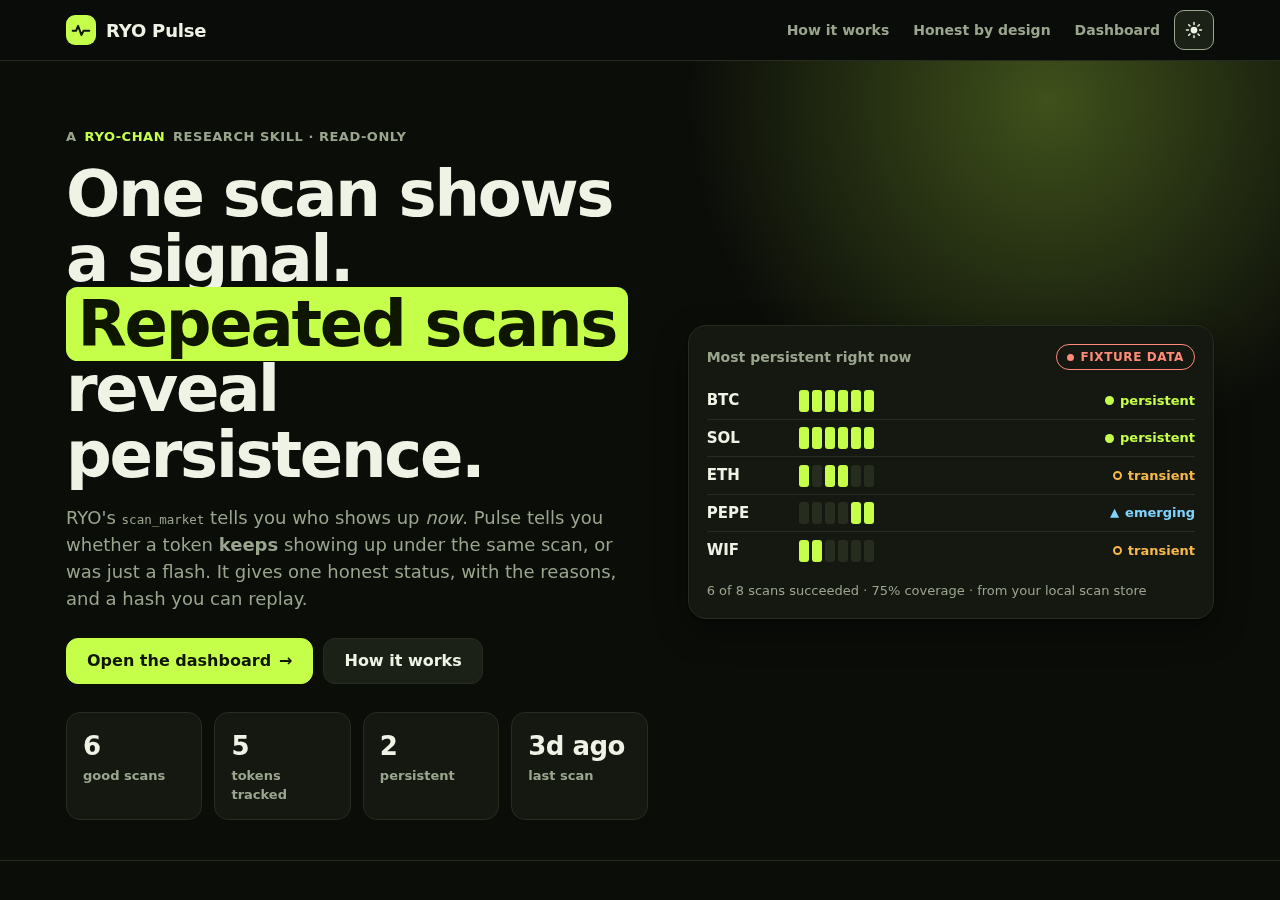
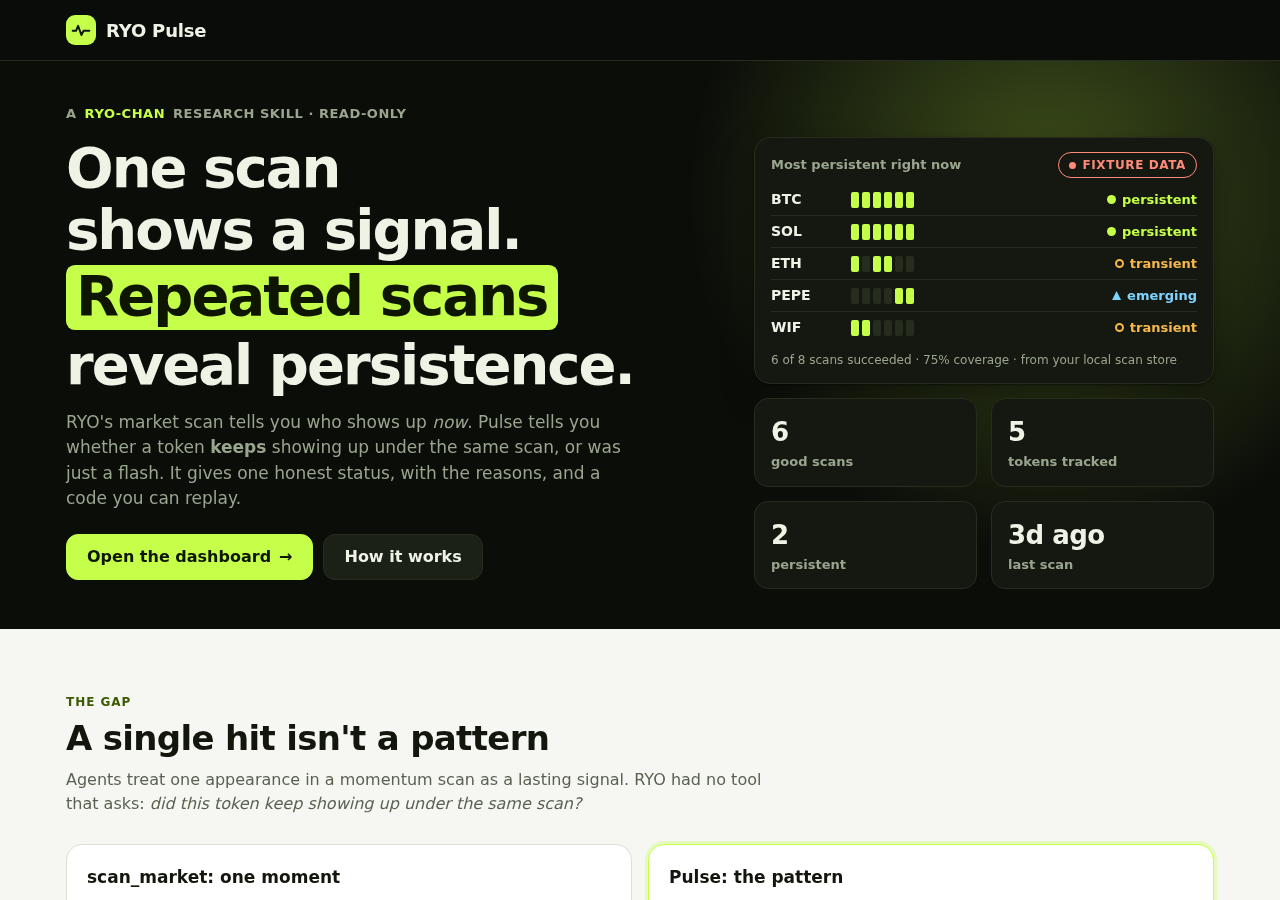
README: describe the new site, refresh screenshots

diff --git a/README.md b/README.md
@@ -61,18 +61,21 @@ ryo-pulse serve --fixture tests/fixtures/demo_window.json   # offline demo (labe
 ryo-pulse serve --lan                # also open it from a phone on the same Wi-Fi (prints the address)
 ```
 
-![Landing page, night mode](docs/landing.png)
+On Windows, if `ryo-pulse` isn't found, run it from the repo folder with `$env:PYTHONPATH="src"; python -m ryo_pulse serve`. The server reads the page files when it starts, so restart it after pulling changes.
+
+![Landing page](docs/landing.png)
 
 ![Dashboard on the labelled synthetic fixture](docs/dashboard-fixture.png)
 
-A local, read-only screen for **configuring and monitoring** the Pulse skill. It answers "what changed and why" at a glance:
+A local, read-only screen for **configuring and monitoring** the Pulse skill. Its headline is the question it answers: **What changed and why**.
 
-- **What changed since the last scan** comes first: status transitions (for example `persistent → transient`) with the reason, plus the tokens that entered or dropped out of the newest scan.
+- **At a glance:** four tiles for good scans and coverage, the last scan, RYO's market mood and the scan settings in plain words (for example "Top 20"), plus a LIVE or FIXTURE DATA badge.
+- **What changed since the last scan** comes next: status transitions (for example `persistent → transient`) with the reason, plus the tokens that entered or dropped out of the newest scan.
 - **Tokens, most important first:** emerging, then persistent, transient and absent. Each row has hits, streak, current rank, a presence strip of the last 24 good scans and a plain-language *why*. Expand a row for every reason, a `ryo-pulse pulse` command to reproduce it and the `replay_hash`.
 - **Scan health:** ok, failed and drifted scans over time, plus a banner when the latest scan failed. Failures are never shown as absence.
-- **Settings:** window size, the four thresholds and a watchlist pinned to the top. These are saved per browser, sent to the same engine the skill uses, and the page refreshes every 60 s.
-- **Landing page** at `/` with live stats from your scan store and a "most persistent right now" card. The dashboard is at `/board`.
-- **Look:** a dark site with the accent colour `#c5ff4a`. The landing page alternates dark and light bands as you scroll.
+- **Settings:** a Settings button in the top bar (or `s`) opens a popup for window size, the four thresholds and a watchlist pinned to the top. Empty boxes show the values in use. Settings are saved per browser and sent to the same engine the skill uses. The page refreshes every 60 s.
+- **Landing page** at `/`: the idea in one screen, a "most persistent right now" card and live stats from your scan store, then how it works and why it won't invent absence. The dashboard is at `/board`.
+- **Look:** a dark site with the accent colour `#c5ff4a` and a bundled font, so it looks the same on Windows, Mac and phones. The landing page alternates dark and light bands as you scroll.
 - **Works for everyone:** keyboard-only use (`/` find, `r` refresh, `s` settings, `1`–`5` status filters, Tab and Enter on rows), status shown by text and shape and not by colour alone, a skip link, live-region updates, and phone width (tokens become cards on a phone).
 
 It never calls RYO and has no new dependencies (Python stdlib server + plain HTML/CSS/JS, no build step, no external assets). Every number on screen comes from `engine.classify`, so the skill (Track 3) and the interface (Track 2) can each be judged on their own.
@@ -134,6 +137,5 @@ docs/           design + JSON schemas
 - Written during the event window (Aug 18 – Oct 3, 2026 JST). No starter template was used.
 - Third-party libraries: [pydantic](https://docs.pydantic.dev/), [httpx](https://www.python-httpx.org/), [rich](https://github.com/Textualize/rich), [pytest](https://pytest.org/).
 - Bundled font: [DejaVu Sans](https://dejavu-fonts.github.io/) (Bitstream Vera license, see `src/ryo_pulse/web/fonts/LICENSE.txt`), subset to Latin so the site looks the same on every OS.
-- AI assistance: built with Claude Code.
 - `tests/fixtures/demo_window.json` is **synthetic** test data, and is labelled so in the file and in every result it produces. Live demos use snapshots collected from RYO with `ryo-pulse collect`.
 - No secrets are committed. Use `.env.example` and keep your real `.env` local.
